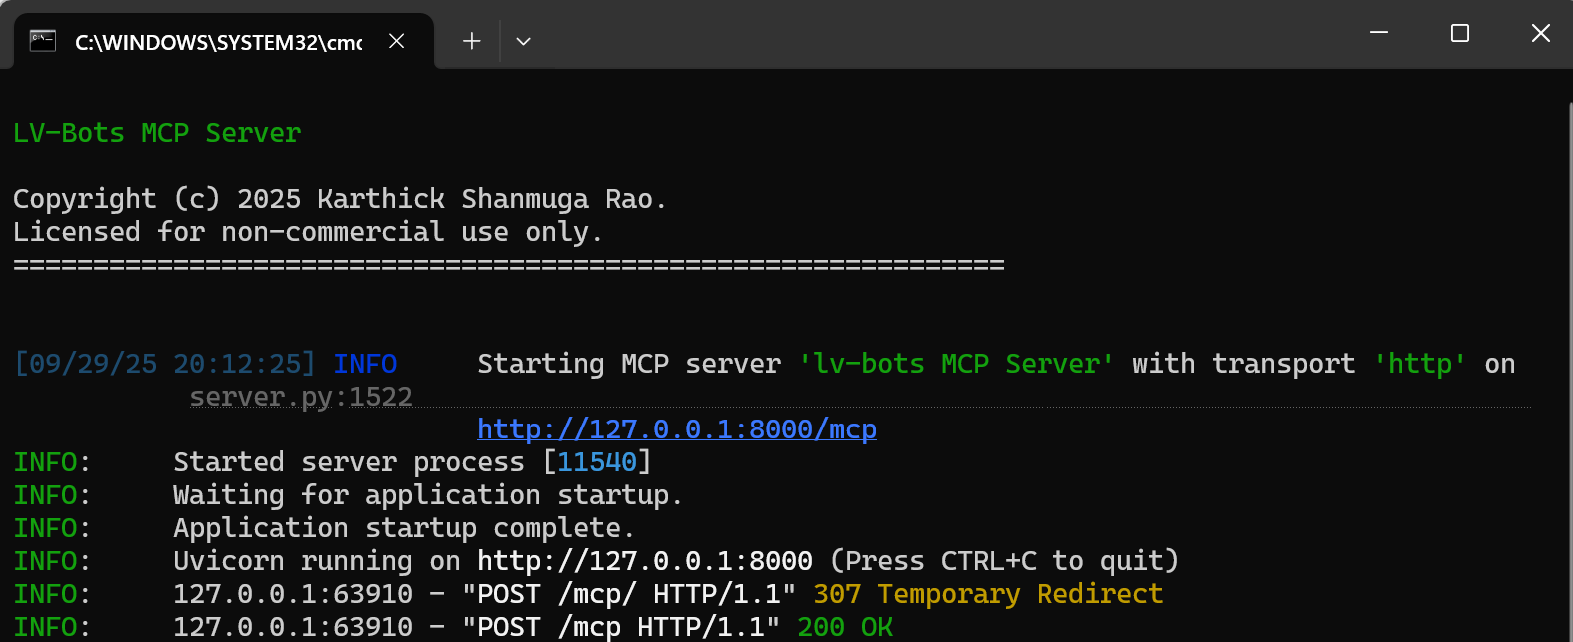
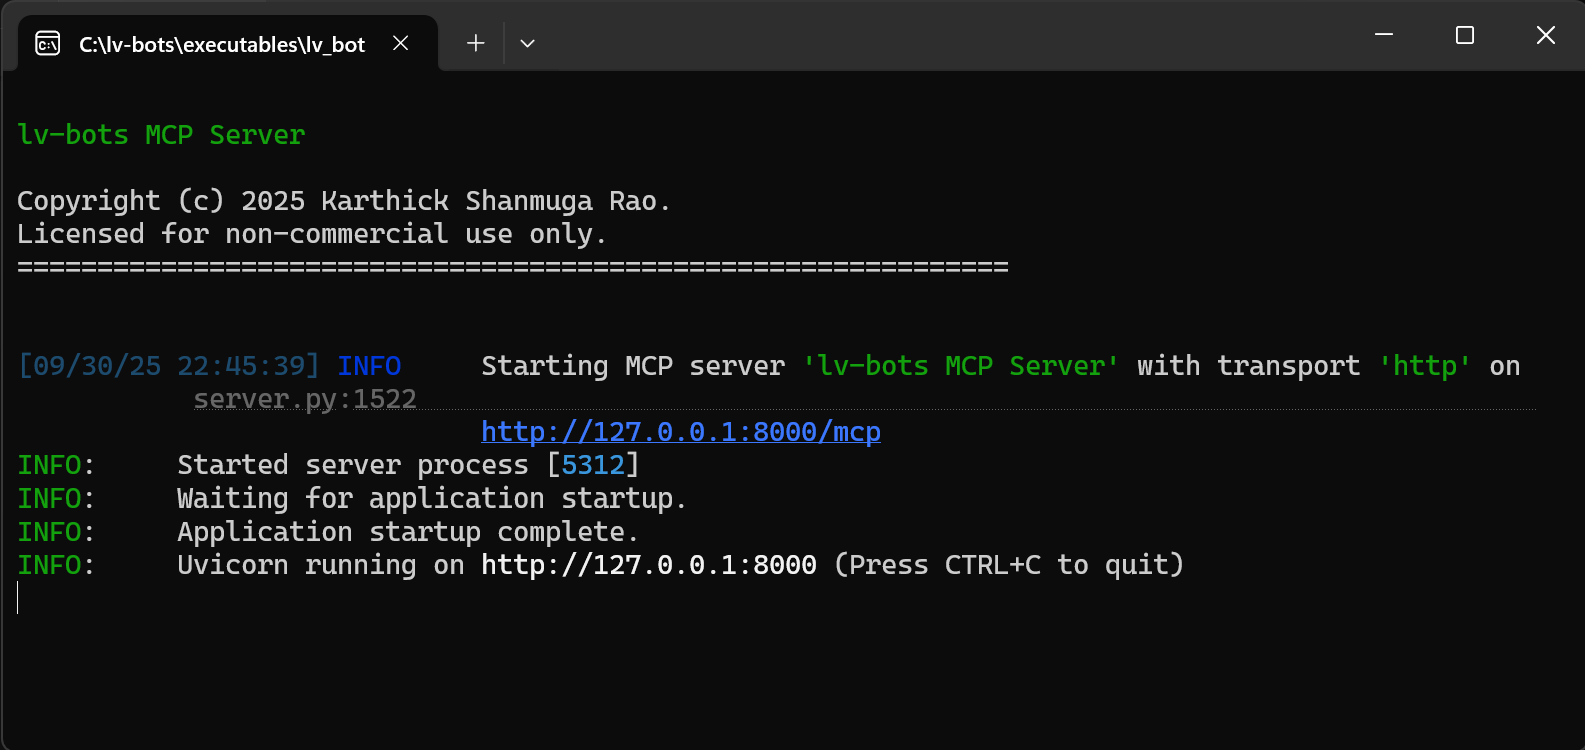
Minor Readme Doc Updates

diff --git a/README.md b/README.md
@@ -1,25 +1,25 @@
 
-- [LV-Bots - `Enabling AI Agents to utilize LabVIEW Tools`](#lv-bots---enabling-ai-agents-to-utilize-labview-tools)
+- [lv-bots-mcp-server - `Enabling AI Agents to utilize LabVIEW Tools`](#lv-bots-mcp-server---enabling-ai-agents-to-utilize-labview-tools)
 - [1. Purpose and Long Term Vision](#1-purpose-and-long-term-vision)
   - [1.1. Purpose](#11-purpose)
   - [1.2. Feature Roadmap](#12-feature-roadmap)
-- [2. LV Bots in Action - Quick Setup and Run](#2-lv-bots-in-action---quick-setup-and-run)
+- [2. lv-bots in Action - Quick Setup and Run](#2-lv-bots-in-action---quick-setup-and-run)
 - [3. Current Features and Limitations](#3-current-features-and-limitations)
   - [3.1. Features](#31-features)
   - [3.2. Limitations of Current Version](#32-limitations-of-current-version)
 - [4. User Guide (Additional Details)](#4-user-guide-additional-details)
   - [4.1. Configuration and Metadata Files](#41-configuration-and-metadata-files)
-  - [4.2. Launching the LV-Bots](#42-launching-the-lv-bots)
+  - [4.2. Launching the lv-bots](#42-launching-the-lv-bots)
   - [4.3. AI Agent using the Example Tool VIs](#43-ai-agent-using-the-example-tool-vis)
-  - [4.4. LV-Bots Terminal Windows](#44-lv-bots-terminal-windows)
+  - [4.4. lv-bots Terminal Windows](#44-lv-bots-terminal-windows)
   - [4.5. A Note about LabVIEW Application Restart](#45-a-note-about-labview-application-restart)
   - [4.6. 📑 JSON Metadata File Format](#46--json-metadata-file-format)
     - [4.6.1. Metadata JSON](#461-metadata-json)
     - [4.6.2. Example](#462-example)
 
 
-# LV-Bots - `Enabling AI Agents to utilize LabVIEW Tools`
-LV-Bots is a Python-based **Model Context Protocol (MCP)** server that dynamically registers LabVIEW VIs as tools for AI agents / applications.  
+# lv-bots-mcp-server - `Enabling AI Agents to utilize LabVIEW Tools`
+lv-bots-mcp-server is a Python-based **Model Context Protocol (MCP)** server that dynamically registers LabVIEW VIs as tools for AI agents / applications.  
 
 
 # 1. Purpose and Long Term Vision
@@ -36,14 +36,14 @@ LV-Bots is a Python-based **Model Context Protocol (MCP)** server that dynamical
 5. ✅ **Tool chaining** – In Future Enable advanced workflows where **outputs from one VI can serve as inputs for another**, allowing AI agents to intelligently chain LabVIEW tools to perform complex tasks.  
  
 
-# 2. LV Bots in Action - Quick Setup and Run
+# 2. lv-bots in Action - Quick Setup and Run
 1. Download the Setup Zip file from the Releases. Unzip and Run the Installer.
    1. [Alpha v0.3 Setup - Download Link](https://github.com/karthickshanmugarao/lv-bots-public-releases/releases/download/lv-bots-alpha-v0.3/LV-Bots-Setup-v0.3.3.zip)
-2. LV Bots will be installed at `C:\lv-bots`
+2. lv-bots will be installed at `C:\lv-bots`
 3. Add your `OPENAI_API_KEY` in the `C:\lv-bots\.env`
 4. Open and run the `C:\lv-bots\lv_bots_launcher.vi` in LabVIEW (32-bit) to launch the MCP Server.
 5. Two terminals will be opened
-   1. One for LV Bots MCP Server, and 
+   1. One for lv-bots MCP Server, and 
    2. Another for the Example AI Agent. 
    3. Interact with the agent in the terminal which can run the tools based on the prompts.
 6. **Example Tools** are available at `C:\lv-bots\mcp_tool_vis`
@@ -58,14 +58,14 @@ LV-Bots is a Python-based **Model Context Protocol (MCP)** server that dynamical
 9.   To include more tool VIs - Add the VIs and respective Metadata files in the folders `mcp_tool_vis` and `mcp_tools_metadata`.
      1.   The folder locations can be changed by modifying few keys in `.env` and `lv_bots_executor_config.ini`. Refer the `User Guide` Section.
      2.   Refer [4.6.1. Metadata JSON](#461-metadata-json) to create metadata files for new tool VIs.
-10.    **Closing LV Bots** - To exit LV Bots, close all the open terminals and the lv_bots_executor_service VI front panel.
+10.    **Closing lv-bots** - To exit lv-bots, close all the open terminals and the lv_bots_executor_service VI front panel.
 11.    Refer [User Guide](#4-user-guide-additional-details) for more details
 
 # 3. Current Features and Limitations
 ## 3.1. Features
 - **MCP Tool Registration** – MCP Tools registerd for each `.json` file in the metadata folder.
-- **MCP Server** – The tools registered in LV Bots MCP Server can be used by any AI Agent / Platform that supports the Model Context Protocol.
-- **LabVIEW VI Execution** – MCP Server executes LabVIEW VIs using a separate LV Bots Executor service.
+- **MCP Server** – The tools registered in lv-bots MCP Server can be used by any AI Agent / Platform that supports the Model Context Protocol.
+- **LabVIEW VI Execution** – MCP Server executes LabVIEW VIs using a separate lv-bots Executor service.
 - **Example AI Agent** - An Example AI Agent is available to interact over a terminal window. This requires OpenAI API Key in `.env`.
 
 ## 3.2. Limitations of Current Version
@@ -97,7 +97,7 @@ LV-Bots is a Python-based **Model Context Protocol (MCP)** server that dynamical
      - ![example-env-screenshot](images/example_env_screenshot.png "Example .env")
      - `intermediate_tools_dir` - `optional config` – Output Directory to store generated MCP tool `.py` files. These intermediate files will be generated only for debugging purposes when using the following script `g_mcp_server_with_tool_py_generation.py` 
 
-2. **LV Executor configuration INI**
+2. **lv-bots Executor configuration INI**
    - `No changes needed if you are just trying examples in this repo`
    - Open the following configuration file `lv_bots_executor_config.ini`
    - Configure `tools_directory` as the Absolute path of the Folder which contains the tool VIs to be used by AI agents.
@@ -117,8 +117,8 @@ LV-Bots is a Python-based **Model Context Protocol (MCP)** server that dynamical
    - Examples are stored in the `mcp_tool_vis/` folder.  
    - The VI file name should match the JSON file name.
 
-## 4.2. Launching the LV-Bots
-1. To launch the LV Bots, **Open and run the `lv_bots_launcher.vi`**  which will open terminal windows explained in the section **`LV-Bots Terminal Windows`**
+## 4.2. Launching the lv-bots
+1. To launch the lv-bots, **Open and run the `lv_bots_launcher.vi`**  which will open terminal windows explained in the section **`lv-bots Terminal Windows`**
 
 ## 4.3. AI Agent using the Example Tool VIs
 1. After the VI `lv_bots_launcher.vi` is run, the Example AI Agent terminal window will allow user to interact with AI agent that can list the tools and run them based on prompts.
@@ -132,7 +132,7 @@ LV-Bots is a Python-based **Model Context Protocol (MCP)** server that dynamical
 4. **Metadata JSON Files** that describes the tools are at `C:\lv-bots\mcp_tools_metadata`. 
    1. The metadata folder can be changed to different location by updating the `metadata_dir` key in `.env`
 
-## 4.4. LV-Bots Terminal Windows
+## 4.4. lv-bots Terminal Windows
 Following are the different terminal windows that will be launched by the VI `lv_bots_launcher.vi`.
 
    1. `lv-bots MCP Server` - This is the MCP server with which AI agents will communicate. This will:
@@ -146,7 +146,7 @@ Following are the different terminal windows that will be launched by the VI `lv
      - ![example-agent-screenshot](images/lv_bots_example_agent_screenshot.png "Start and test AI Agent integrated with MCP")
   
 ## 4.5. A Note about LabVIEW Application Restart
-1. In case of any error during LV Bots Launch using the `lv_bots_launcher.vi`, retry the launcher after closing all files in LabVIEW using `File --> Close All` or `File --> Quit`.
+1. In case of any error during lv-bots Launch using the `lv_bots_launcher.vi`, retry the launcher after closing all files in LabVIEW using `File --> Close All` or `File --> Quit`.
 
 ## 4.6. 📑 JSON Metadata File Format
 
